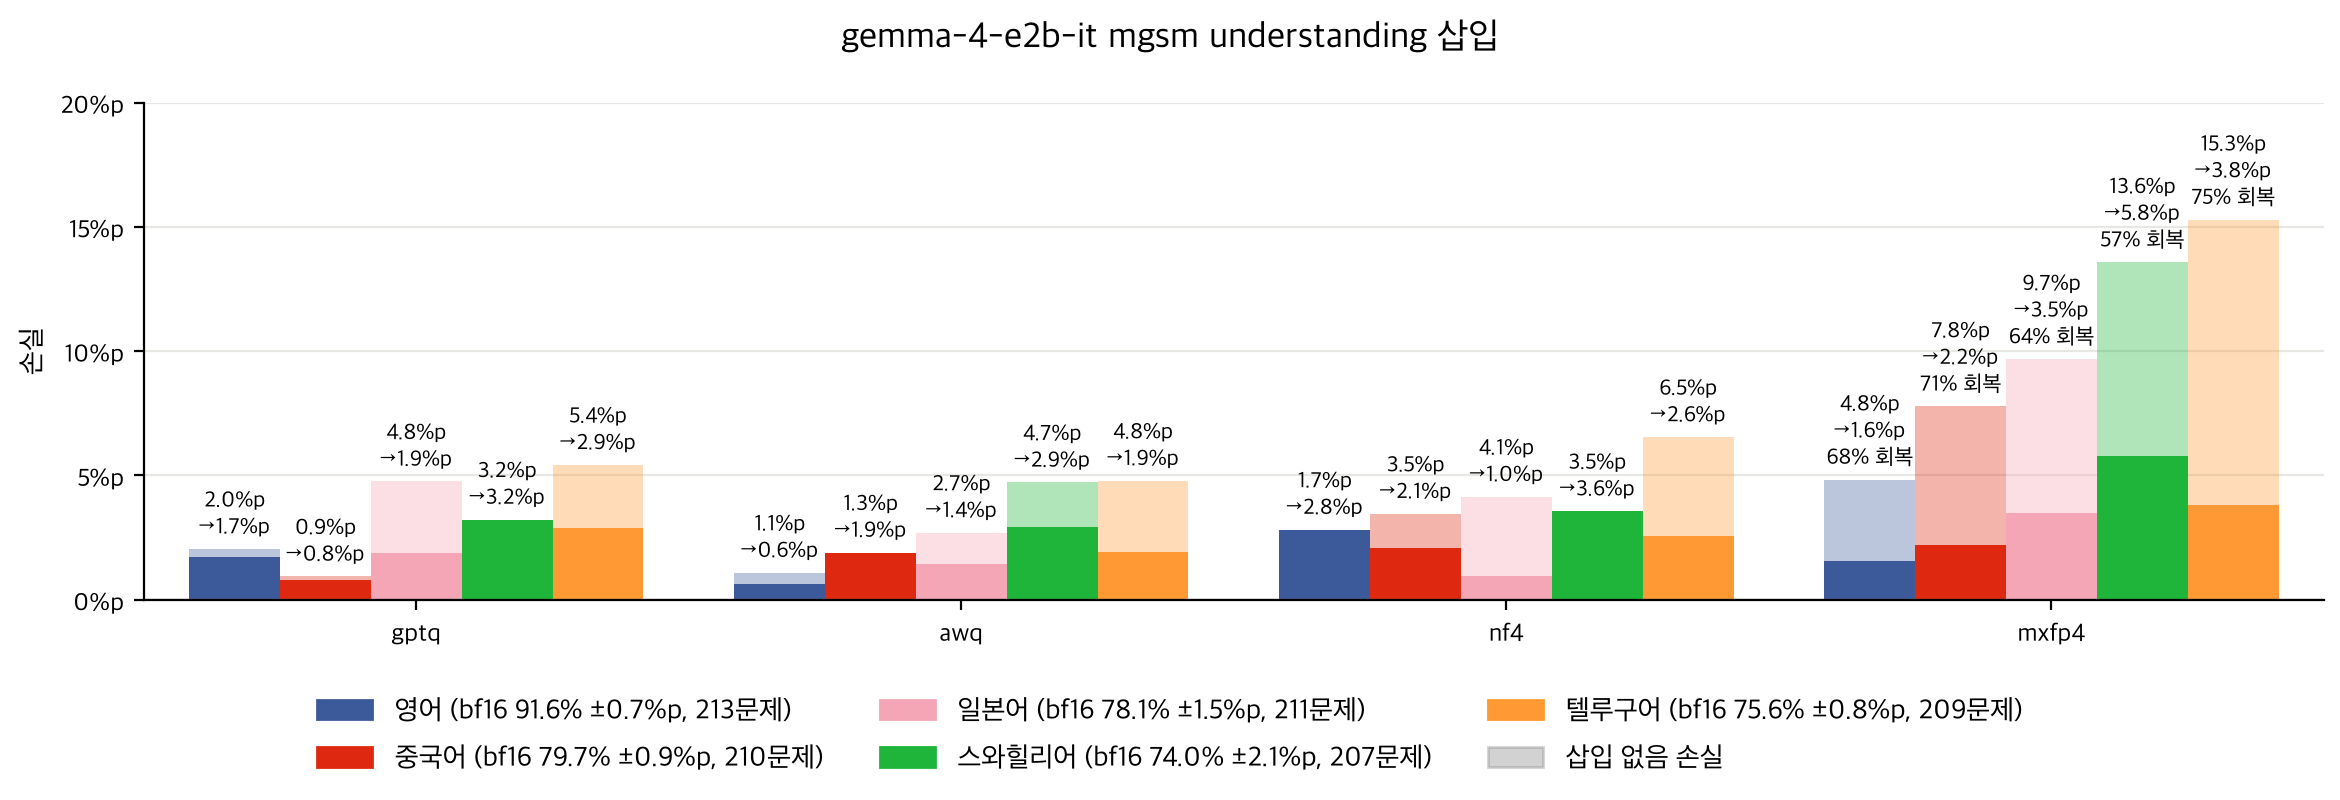
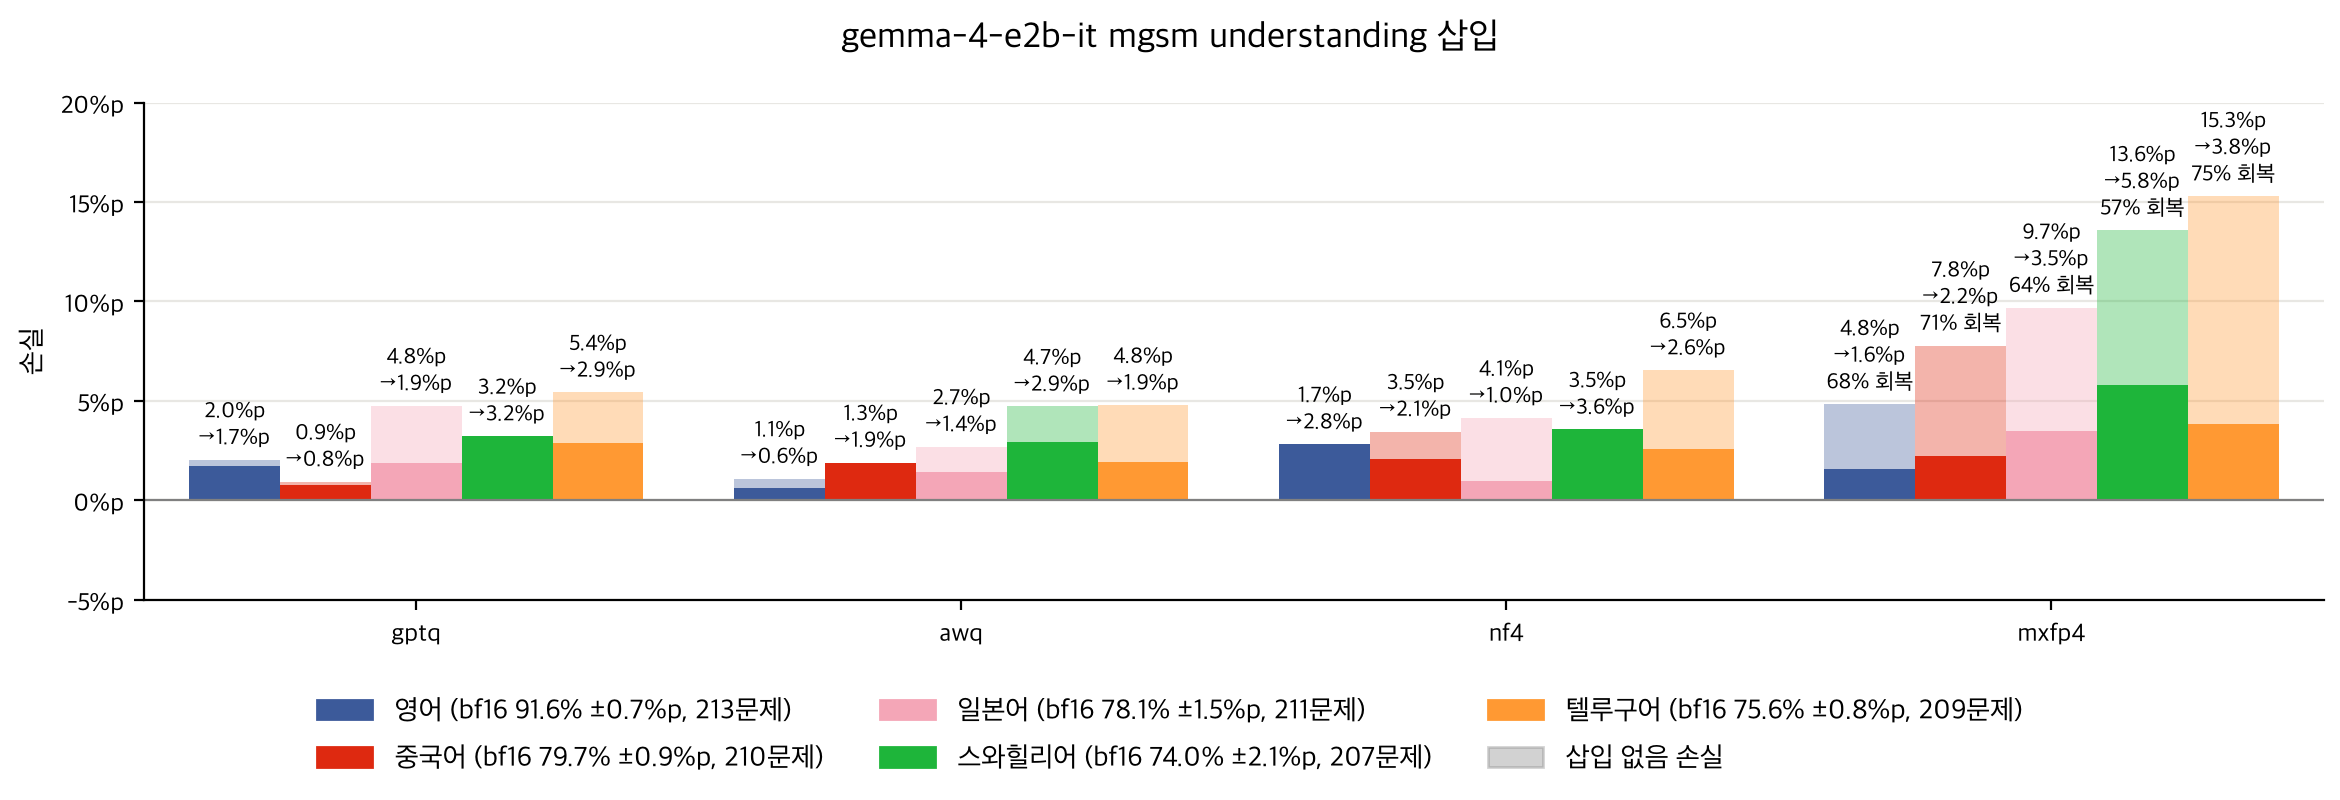
reasoning 앞부분 길이별 삽입 실험 추가

diff --git a/experiments/reasoning_prefix_insert.py b/experiments/reasoning_prefix_insert.py
@@ -1,0 +1,82 @@
+from dataclasses import dataclass
+from statistics import mean
+import time
+from typing import Literal
+
+from simple_parsing import parse
+import torch
+from transformers import AutoTokenizer
+
+from utils.dataset import LANGUAGES, load_mgsm
+from utils.evaluation import continue_vllm, evaluate_outputs, load_vllm, parse_mgsm_prediction
+from utils.format import format_duration
+from utils.hub import download_model, load_result, result_exists, save_result
+from utils.model import get_prompt_ids, get_reasoning_ids
+from utils.paths import make_hub_path, make_result_name
+from utils.understanding import LENGTH_RATIOS, get_understanding
+
+
+@dataclass
+class Config:
+    model_name: str = "google/gemma-4-E2B-it"
+    method: Literal["gptq", "awq", "nf4", "mxfp4"] = "mxfp4"
+    calibration_languages: tuple[Literal["en", "zh", "ja", "sw", "te"], ...] = ("en",)
+    num_bits: int = 4
+    group_size: int = 128
+    num_chunks: int = 128
+    max_generation_len: int = 16384
+    seeds: tuple[int, ...] = (0, 1, 2)
+
+
+def main() -> None:
+    config = parse(Config)
+    experiment_name = "bf16_native_reasoning_prefix_insert/mgsm"
+    hub_path = make_hub_path(config.method, config.model_name, config.calibration_languages, config.num_bits, config.group_size, config.num_chunks)
+    file_names = {(seed, length_ratio): make_result_name(config.max_generation_len, seed, length_ratio) for seed in config.seeds for length_ratio in LENGTH_RATIOS}
+
+    # 1. seed와 length_ratio마다 hub result에서 빠진 것 확인, 빠진 것이 없으면 종료
+    missing_cases = [case for case, file_name in file_names.items() if not result_exists(experiment_name, hub_path, file_name)]
+    if not missing_cases:
+        print(f"{hub_path} already evaluated")
+        return
+    problems = load_mgsm(LANGUAGES)
+    tokenizer = AutoTokenizer.from_pretrained(config.model_name)
+
+    # 2. 같은 seed의 bf16이 해당 언어 prompt에 쓴 reasoning을 understanding token 수의 length_ratio배에서 잘라 삽입
+    # length_ratio끼리 같은 문제로 비교하기 때문에 reasoning이 understanding token 수의 2배 이상인 문제만 사용
+    # 예시) 스와힐리어 prompt + "<|channel>thought\n" + bf16 스와힐리어 reasoning 앞부분
+    problem_indices = {}
+    input_ids = []
+    prompt_seeds = []
+    for seed, length_ratio in missing_cases:
+        bf16_result = load_result("mgsm", make_hub_path("bf16", config.model_name), make_result_name(config.max_generation_len, seed))
+        for language in LANGUAGES:
+            reasoning_ids = [get_reasoning_ids(tokenizer, config.model_name, reasoning) for reasoning in bf16_result[language]["reasonings"]]
+            understandings = [get_understanding(reasoning) for reasoning in bf16_result[language]["reasonings"]]
+            understanding_lens = {problem_index: len(get_reasoning_ids(tokenizer, config.model_name, understanding)) for problem_index, understanding in enumerate(understandings) if understanding is not None}
+            problem_indices[seed, length_ratio, language] = [problem_index for problem_index, understanding_len in understanding_lens.items() if len(reasoning_ids[problem_index]) >= max(LENGTH_RATIOS) * understanding_len]
+            for problem_index in problem_indices[seed, length_ratio, language]:
+                input_ids.append(torch.cat([get_prompt_ids(tokenizer, problems[language][problem_index][0]), reasoning_ids[problem_index][: round(length_ratio * understanding_lens[problem_index])]]))
+                prompt_seeds.append(seed)
+
+    # 3. vllm은 띄우는 데 오래 걸리기 때문에 bf16 reasoning 앞부분에 이어서 reasoning과 response를 모아 한 번에 생성
+    model = load_vllm(download_model(hub_path), config.model_name)
+    start_time = time.perf_counter()
+    outputs = continue_vllm(model, config.model_name, input_ids, prompt_seeds, config.max_generation_len)
+    print(f"{hub_path} time {format_duration(time.perf_counter() - start_time)}")
+
+    # 4. outputs를 seed, length_ratio, 언어별로 나눠 채점하고 저장
+    start = 0
+    for seed, length_ratio in missing_cases:
+        result = {}
+        for language in LANGUAGES:
+            end = start + len(problem_indices[seed, length_ratio, language])
+            answers = [problems[language][problem_index][1] for problem_index in problem_indices[seed, length_ratio, language]]
+            result[language] = {**evaluate_outputs(outputs[start:end], answers, language, tokenizer, config.model_name, parse_mgsm_prediction), "problem_indices": problem_indices[seed, length_ratio, language]}
+            start = end
+            print(f"{hub_path} seed {seed} length ratio {length_ratio} {language} accuracy {result[language]['accuracy']:.2%} reasoning len {mean(result[language]['reasoning_lens']):.0f} used {len(answers)} of {len(problems[language])}")
+        save_result(experiment_name, hub_path, file_names[seed, length_ratio], result)
+
+
+if __name__ == "__main__":
+    main()

diff --git a/plots/reasoning_prefix_insert.py b/plots/reasoning_prefix_insert.py
@@ -1,0 +1,58 @@
+from dataclasses import dataclass
+from statistics import mean
+from typing import Literal
+
+import matplotlib.pyplot as plt
+from matplotlib.ticker import MultipleLocator
+from simple_parsing import parse
+
+from utils.dataset import LANGUAGES
+from utils.hub import load_results
+from utils.paths import make_hub_path
+from utils.plot import INSERT_LOSS_YMAX, INSERT_LOSS_YMIN, INSERT_LOSS_YTICK, QUANTIZATION_METHODS, add_language_legend, get_figsize, get_subset_accuracy, get_title, plot_language_bars, save_figure
+from utils.understanding import LENGTH_RATIOS
+
+# 예시) ["삽입 없음", "understanding 0.5배", ..., "understanding 2배"]
+CASES = ["삽입 없음", *(f"understanding {length_ratio}배" for length_ratio in LENGTH_RATIOS)]
+
+
+@dataclass
+class Config:
+    model_name: str = "google/gemma-4-E2B-it"
+    calibration_languages: tuple[Literal["en", "zh", "ja", "sw", "te"], ...] = ("en",)
+    num_bits: int = 4
+    group_size: int = 128
+    num_chunks: int = 128
+    max_generation_len: int = 16384
+    seeds: tuple[int, ...] = (0, 1, 2)
+
+
+def main() -> None:
+    config = parse(Config)
+    bf16_results = load_results("mgsm", make_hub_path("bf16", config.model_name), config.max_generation_len, config.seeds)
+
+    fig, axes = plt.subplots(len(QUANTIZATION_METHODS), 1, figsize=get_figsize(len(CASES), len(QUANTIZATION_METHODS)), layout="constrained")
+    for ax, method in zip(axes, QUANTIZATION_METHODS):
+        hub_path = make_hub_path(method, config.model_name, config.calibration_languages, config.num_bits, config.group_size, config.num_chunks)
+        results = [load_results("mgsm", hub_path, config.max_generation_len, config.seeds)]
+        results += [load_results("bf16_native_reasoning_prefix_insert/mgsm", hub_path, config.max_generation_len, config.seeds, length_ratio) for length_ratio in LENGTH_RATIOS]
+        # 모든 길이에서 같은 문제를 쓰기 때문에 첫 길이의 문제로 bf16, 삽입 없음, 삽입 정확도를 계산
+        problem_indices = {language: [set(result[language]["problem_indices"]) for result in results[1]] for language in LANGUAGES}
+        losses = {}
+        for language in LANGUAGES:
+            bf16_accuracy = mean(get_subset_accuracy(result[language], indices) for result, indices in zip(bf16_results, problem_indices[language]))
+            losses[language] = [bf16_accuracy - mean(get_subset_accuracy(result[language], indices) for result, indices in zip(case_results, problem_indices[language])) for case_results in results]
+        plot_language_bars(ax, CASES, losses, "%p")
+        ax.set_title(method)
+        ax.set_ylabel("손실")
+        ax.set_ylim(INSERT_LOSS_YMIN, INSERT_LOSS_YMAX)
+        ax.yaxis.set_major_locator(MultipleLocator(INSERT_LOSS_YTICK))
+
+    fig.suptitle(get_title(config.model_name, "mgsm", "reasoning 앞부분 길이별 삽입"))
+    num_problems = {language: round(mean(len(indices) for indices in problem_indices[language])) for language in LANGUAGES}
+    add_language_legend(fig, bf16_results, num_problems)
+    save_figure(fig, config.model_name, "mgsm_reasoning_prefix_insert")
+
+
+if __name__ == "__main__":
+    main()

diff --git a/plots/understanding_insert.py b/plots/understanding_insert.py
@@ -11,16 +11,13 @@ from simple_parsing import parse
 from utils.dataset import LANGUAGES
 from utils.hub import load_results
 from utils.paths import make_hub_path
-from utils.plot import CASE_WIDTH, LANGUAGE_COLORS, QUANTIZATION_METHODS, add_language_legend, get_figsize, get_title, save_figure
+from utils.plot import CASE_WIDTH, INSERT_LOSS_YMAX, INSERT_LOSS_YMIN, INSERT_LOSS_YTICK, LANGUAGE_COLORS, QUANTIZATION_METHODS, add_language_legend, get_figsize, get_subset_accuracy, get_title, save_figure
 from utils.understanding import get_understanding_problem_indices
 
 # 삽입 없음 손실을 같은 언어 색의 연한 막대로 표시
 NO_INSERT_ALPHA = 0.35
 # 회복 비율을 표시할 양자화 방법, 나머지는 손실이 작아 비율이 의미 없음
 RECOVERY_METHODS = ["mxfp4"]
-# 삽입 plot끼리 비교하기 쉽게 y축 고정
-LOSS_YMAX = 0.2
-LOSS_YTICK = 0.05
 
 
 @dataclass
@@ -32,15 +29,6 @@ class Config:
     num_chunks: int = 128
     max_generation_len: int = 16384
     seeds: tuple[int, ...] = (0, 1, 2)
-
-
-def get_subset_accuracy(
-    result: dict,
-    problem_indices: set[int],
-) -> float:
-    # 일부 문제만 넣은 result는 problem_indices가 있고, 없으면 모든 문제
-    result_problem_indices = result.get("problem_indices", range(len(result["corrects"])))
-    return mean(correct for problem_index, correct in zip(result_problem_indices, result["corrects"]) if problem_index in problem_indices)
 
 
 def plot_insert_loss_bars(
@@ -55,7 +43,7 @@ def plot_insert_loss_bars(
             x = case_index * CASE_WIDTH + language_index - (len(LANGUAGES) - 1) / 2
             ax.bar(x, no_insert_loss, width=1, color=LANGUAGE_COLORS[language], alpha=NO_INSERT_ALPHA)
             ax.bar(x, insert_loss, width=1, color=LANGUAGE_COLORS[language])
-            texts = [f"{no_insert_loss * 100 + 0.0:.1f}%p", f"→{insert_loss * 100 + 0.0:.1f}%p"]
+            texts = [f"{round(no_insert_loss * 100, 1) + 0.0:.1f}%p", f"→{round(insert_loss * 100, 1) + 0.0:.1f}%p"]
             if cases[case_index] in RECOVERY_METHODS:
                 texts.append(f"{(no_insert_loss - insert_loss) / no_insert_loss:.0%} 회복")
             ax.annotate("\n".join(texts), (x, max(no_insert_loss, insert_loss, 0)), xytext=(0, 3), textcoords="offset points", ha="center", va="bottom", fontsize=8)
@@ -84,8 +72,8 @@ def main() -> None:
     fig, ax = plt.subplots(figsize=get_figsize(len(QUANTIZATION_METHODS), 1), layout="constrained")
     plot_insert_loss_bars(ax, QUANTIZATION_METHODS, losses)
     ax.set_ylabel("손실")
-    ax.set_ylim(0, LOSS_YMAX)
-    ax.yaxis.set_major_locator(MultipleLocator(LOSS_YTICK))
+    ax.set_ylim(INSERT_LOSS_YMIN, INSERT_LOSS_YMAX)
+    ax.yaxis.set_major_locator(MultipleLocator(INSERT_LOSS_YTICK))
 
     fig.suptitle(get_title(config.model_name, "mgsm", "understanding 삽입"))
     num_problems = {language: round(mean(len(indices) for indices in problem_indices[language])) for language in LANGUAGES}

diff --git a/utils/plot.py b/utils/plot.py
@@ -20,6 +20,10 @@ BAR_GAP = 1
 CASE_WIDTH = len(LANGUAGES) + BAR_GAP
 PANEL_HEIGHT = 3.0
 PANEL_MARGIN = 0.9
+# 삽입 plot끼리 비교하기 쉽게 y축 고정, 삽입하면 bf16보다 높아져 손실이 음수일 수 있음
+INSERT_LOSS_YMIN = -0.05
+INSERT_LOSS_YMAX = 0.2
+INSERT_LOSS_YTICK = 0.05
 NUM_POSITION_BINS = 5
 # 예시) ["reasoning 0~20%", ..., "reasoning 80~100%"]
 POSITION_LABELS = [f"reasoning {index * 100 // NUM_POSITION_BINS}~{(index + 1) * 100 // NUM_POSITION_BINS}%" for index in range(NUM_POSITION_BINS)]
@@ -53,6 +57,15 @@ def get_accuracy(
     result: dict,
 ) -> float:
     return result["accuracy"]
+
+
+def get_subset_accuracy(
+    result: dict,
+    problem_indices: set[int],
+) -> float:
+    # 일부 문제만 넣은 result는 problem_indices가 있고, 없으면 모든 문제
+    result_problem_indices = result.get("problem_indices", range(len(result["corrects"])))
+    return mean(correct for problem_index, correct in zip(result_problem_indices, result["corrects"]) if problem_index in problem_indices)
 
 
 def get_mean_values(
@@ -105,7 +118,7 @@ def plot_language_bars(
         xs = [case_index * CASE_WIDTH + language_index - (len(LANGUAGES) - 1) / 2 for case_index in range(len(cases))]
         ax.bar(xs, values[language], width=1, color=LANGUAGE_COLORS[language])
         for x, value in zip(xs, values[language]):
-            text = f"{value * 100 + 0.0:.1f}{unit}" if unit else f"{value:.3f}"
+            text = f"{round(value * 100, 1) + 0.0:.1f}{unit}" if unit else f"{value:.3f}"
             ax.annotate(text, (x, max(value, 0)), xytext=(0, 3), textcoords="offset points", ha="center", va="bottom", fontsize=8)
     ax.axhline(0, color="#808080", linewidth=0.8)
     ax.set_xticks([case_index * CASE_WIDTH for case_index in range(len(cases))], cases)

diff --git a/experiments/understanding_insert.py b/experiments/understanding_insert.py
@@ -5,13 +5,10 @@ from typing import Literal
 
 from simple_parsing import parse
 import torch
-from torch import Tensor
 from transformers import AutoTokenizer
-from vllm import LLM  # type: ignore
-from vllm.outputs import CompletionOutput  # type: ignore
 
 from utils.dataset import LANGUAGES, load_mgsm
-from utils.evaluation import evaluate_outputs, get_sampling_params, load_vllm, parse_mgsm_prediction
+from utils.evaluation import continue_vllm, evaluate_outputs, load_vllm, parse_mgsm_prediction
 from utils.format import format_duration
 from utils.hub import download_model, load_result, result_exists, save_result
 from utils.model import get_prompt_ids, get_reasoning_ids
@@ -29,21 +26,6 @@ class Config:
     num_chunks: int = 128
     max_generation_len: int = 16384
     seeds: tuple[int, ...] = (0, 1, 2)
-
-
-def continue_vllm(
-    model: LLM,
-    model_name: str,
-    input_ids: list[Tensor],
-    prompt_seeds: list[int],
-    max_generation_len: int,
-) -> list[CompletionOutput]:
-    # chat template을 거치지 않고 이미 만든 token 뒤에 이어서 생성
-    # 예시) generate_vllm: "1+2=?" → chat template으로 prompt ids 만듦 → "<|channel>thought\n...<channel|>3" 생성
-    # 예시) continue_vllm: 직접 만든 prompt ids + "<|channel>thought\n" + 삽입한 text → "...<channel|>3" 이어서 생성
-    prompts = [{"prompt_token_ids": ids.tolist()} for ids in input_ids]
-    outputs = model.generate(prompts, get_sampling_params(model_name, prompt_seeds, max_generation_len), use_tqdm=True)
-    return [output.outputs[0] for output in outputs]
 
 
 def main() -> None:

diff --git a/utils/evaluation.py b/utils/evaluation.py
@@ -3,6 +3,7 @@ import re
 from statistics import mean
 import time
 
+from torch import Tensor
 from vllm import LLM, SamplingParams  # type: ignore
 from vllm.outputs import CompletionOutput  # type: ignore
 from vllm.tokenizers import TokenizerLike  # type: ignore
@@ -42,6 +43,21 @@ def generate_vllm(
 ) -> list[CompletionOutput]:
     messages = [[{"role": "user", "content": prompt}] for prompt in prompts]
     outputs = model.chat(messages, get_sampling_params(model_name, prompt_seeds, max_generation_len), use_tqdm=True, chat_template_kwargs={"enable_thinking": True})
+    return [output.outputs[0] for output in outputs]
+
+
+def continue_vllm(
+    model: LLM,
+    model_name: str,
+    input_ids: list[Tensor],
+    prompt_seeds: list[int],
+    max_generation_len: int,
+) -> list[CompletionOutput]:
+    # chat template을 거치지 않고 이미 만든 token 뒤에 이어서 생성
+    # 예시) generate_vllm: "1+2=?" → chat template으로 prompt ids 만듦 → "<|channel>thought\n...<channel|>3" 생성
+    # 예시) continue_vllm: 직접 만든 prompt ids + "<|channel>thought\n" + 삽입한 text → "...<channel|>3" 이어서 생성
+    prompts = [{"prompt_token_ids": ids.tolist()} for ids in input_ids]
+    outputs = model.generate(prompts, get_sampling_params(model_name, prompt_seeds, max_generation_len), use_tqdm=True)
     return [output.outputs[0] for output in outputs]
 
 

diff --git a/utils/paths.py b/utils/paths.py
@@ -15,5 +15,9 @@ def make_hub_path(
 def make_result_name(
     max_generation_len: int,
     seed: int,
+    length_ratio: float | None = None,
 ) -> str:
-    return f"max_generation_len={max_generation_len},seed={seed}"
+    # reasoning 앞부분 길이별 삽입은 앞에 length_ratio 추가
+    # 예시) "length_ratio=0.5,max_generation_len=16384,seed=0"
+    prefix = "" if length_ratio is None else f"length_ratio={length_ratio},"
+    return f"{prefix}max_generation_len={max_generation_len},seed={seed}"

diff --git a/utils/understanding.py b/utils/understanding.py
@@ -3,6 +3,8 @@ import re
 # 제목에 calculate, calculation처럼 품사가 다른 단어가 나오기 때문에 마지막 e 제거
 SOLVING_WORDS = ["calculat", "determin", "comput", "solv", "perform", "set up", "formulat"]
 STEP_TITLE = re.compile(r"^[ \t]*\d+\.\s+\*\*(.+?)\*\*", re.M)
+# understanding 내용 효과와 bf16 reasoning 앞부분 길이 효과를 구분하기 위해 1배 앞뒤도 비교
+LENGTH_RATIOS = [0.5, 0.75, 1, 1.5, 2]
 
 
 def get_understanding(

diff --git a/utils/hub.py b/utils/hub.py
@@ -66,8 +66,9 @@ def load_results(
     hub_path: str,
     max_generation_len: int,
     seeds: tuple[int, ...],
+    length_ratio: float | None = None,
 ) -> list[dict]:
-    return [load_result(experiment_name, hub_path, make_result_name(max_generation_len, seed)) for seed in seeds]
+    return [load_result(experiment_name, hub_path, make_result_name(max_generation_len, seed, length_ratio)) for seed in seeds]
 
 
 def tensors_exist(

diff --git a/EXPERIMENTS.md b/EXPERIMENTS.md
@@ -85,9 +85,23 @@
 - mxfp4에서, understanding만 삽입해도 모든 언어에서 손실이 절반 넘게 줄어듦
 - 스와힐리어와 텔루구어가 영어보다 더 잃는 정도도 크게 줄어듦
 - gptq, awq, nf4는 손실이 작아 차이를 보기 어려움
+- [reasoning 앞부분 길이별 삽입](#reasoning-앞부분-길이별-삽입)에서도, mxfp4 손실은 understanding 길이까지 크게 줄고 그 뒤로는 거의 그대로
 - 따라서 손실은 solving보다 주로 understanding에서 생김
 
 ### reasoning 앞부분 길이별 삽입
+- [understanding 삽입](#understanding-삽입)에서, understanding만 삽입해도 손실이 절반 넘게 줄어듦
+- 그러나 understanding 내용 덕분인지, 단지 bf16 reasoning 앞부분을 삽입한 덕분인지 모름
+- bf16 reasoning을 understanding 길이의 여러 배에서 잘라 삽입하고 손실 비교
+#### 설정
+- reasoning은 같은 seed의 bf16이 해당 언어 prompt에 쓴 것
+- 자르는 길이는 understanding token 수의 0.5, 0.75, 1, 1.5, 2배
+- 문제는 reasoning이 understanding token 수의 2배 이상인 문제만
+- 문제 수는 seed마다 달라 그림에는 seed 평균
+#### 결과
+![](figures/gemma-4-E2B-it/mgsm_reasoning_prefix_insert.png)
+- mxfp4에서, 손실이 1배까지 크게 줄고 그 뒤로는 거의 그대로
+- gptq, awq, nf4는 손실이 작아 차이를 보기 어려움
+- 따라서 손실이 줄어든 것은 길이보다 understanding 내용 덕분
 
 ### 영어 understanding 삽입
 

diff --git a/README.md b/README.md
@@ -109,6 +109,7 @@
 ![](figures/gemma-4-E2B-it/mgsm_understanding_insert.png)
 - mxfp4에서, understanding만 삽입해도 모든 언어에서 손실이 절반 넘게 줄어듦
 - 스와힐리어와 텔루구어가 영어보다 더 잃는 정도도 크게 줄어듦
+- [reasoning 앞부분 길이별 삽입](EXPERIMENTS.md#reasoning-앞부분-길이별-삽입)에서도, mxfp4 손실은 understanding 길이까지 크게 줄고 그 뒤로는 거의 그대로
 - 따라서 손실은 solving보다 주로 understanding에서 생김
 
 ### 영어 question 삽입
